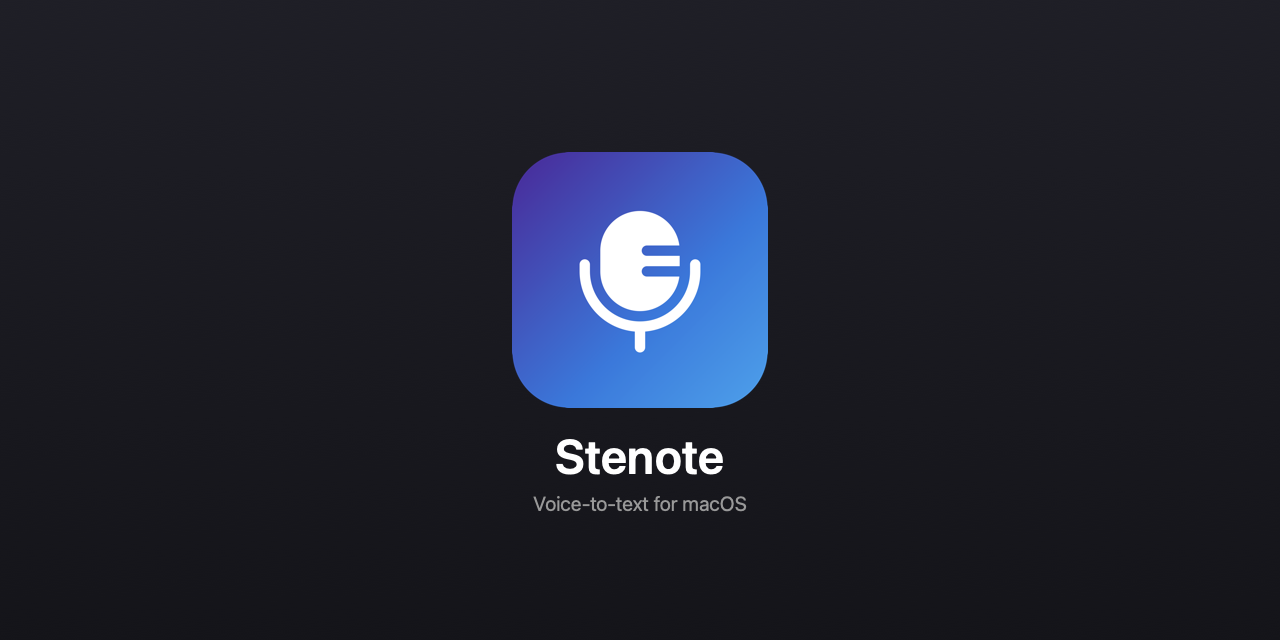
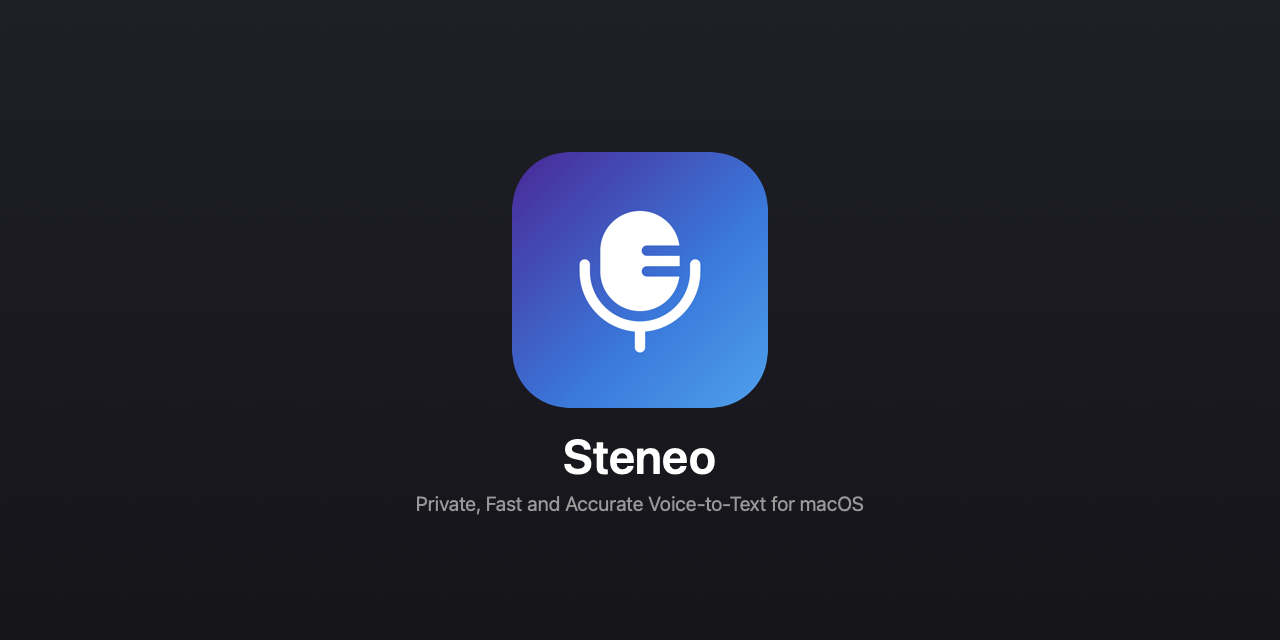
README header image: Steneo name + clearer subtitle
The header still said "Stenote" (stale PNG, never regenerated after the rename) with
the vague "Voice-to-text for macOS". Regenerated via scripts/generate-feature.swift:
now shows "Steneo" + "Private, Fast and Accurate Voice-to-Text for macOS".

Changed region(s): [[0.3125, 0.7812, 0.6875, 0.8125], [0.4375, 0.6875, 0.5625, 0.75]]

diff --git a/scripts/generate-feature.swift b/scripts/generate-feature.swift
@@ -57,7 +57,7 @@ let subAttrs: [NSAttributedString.Key: Any] = [
     .font: NSFont.systemFont(ofSize: 20, weight: .regular),
     .foregroundColor: NSColor(white: 0.6, alpha: 1.0)
 ]
-let subtitle = "Voice-to-text for macOS" as NSString
+let subtitle = "Private, Fast and Accurate Voice-to-Text for macOS" as NSString
 let subSize = subtitle.size(withAttributes: subAttrs)
 let subX = CGFloat(width) / 2 - subSize.width / 2
 let subY = textY - subSize.height - 8